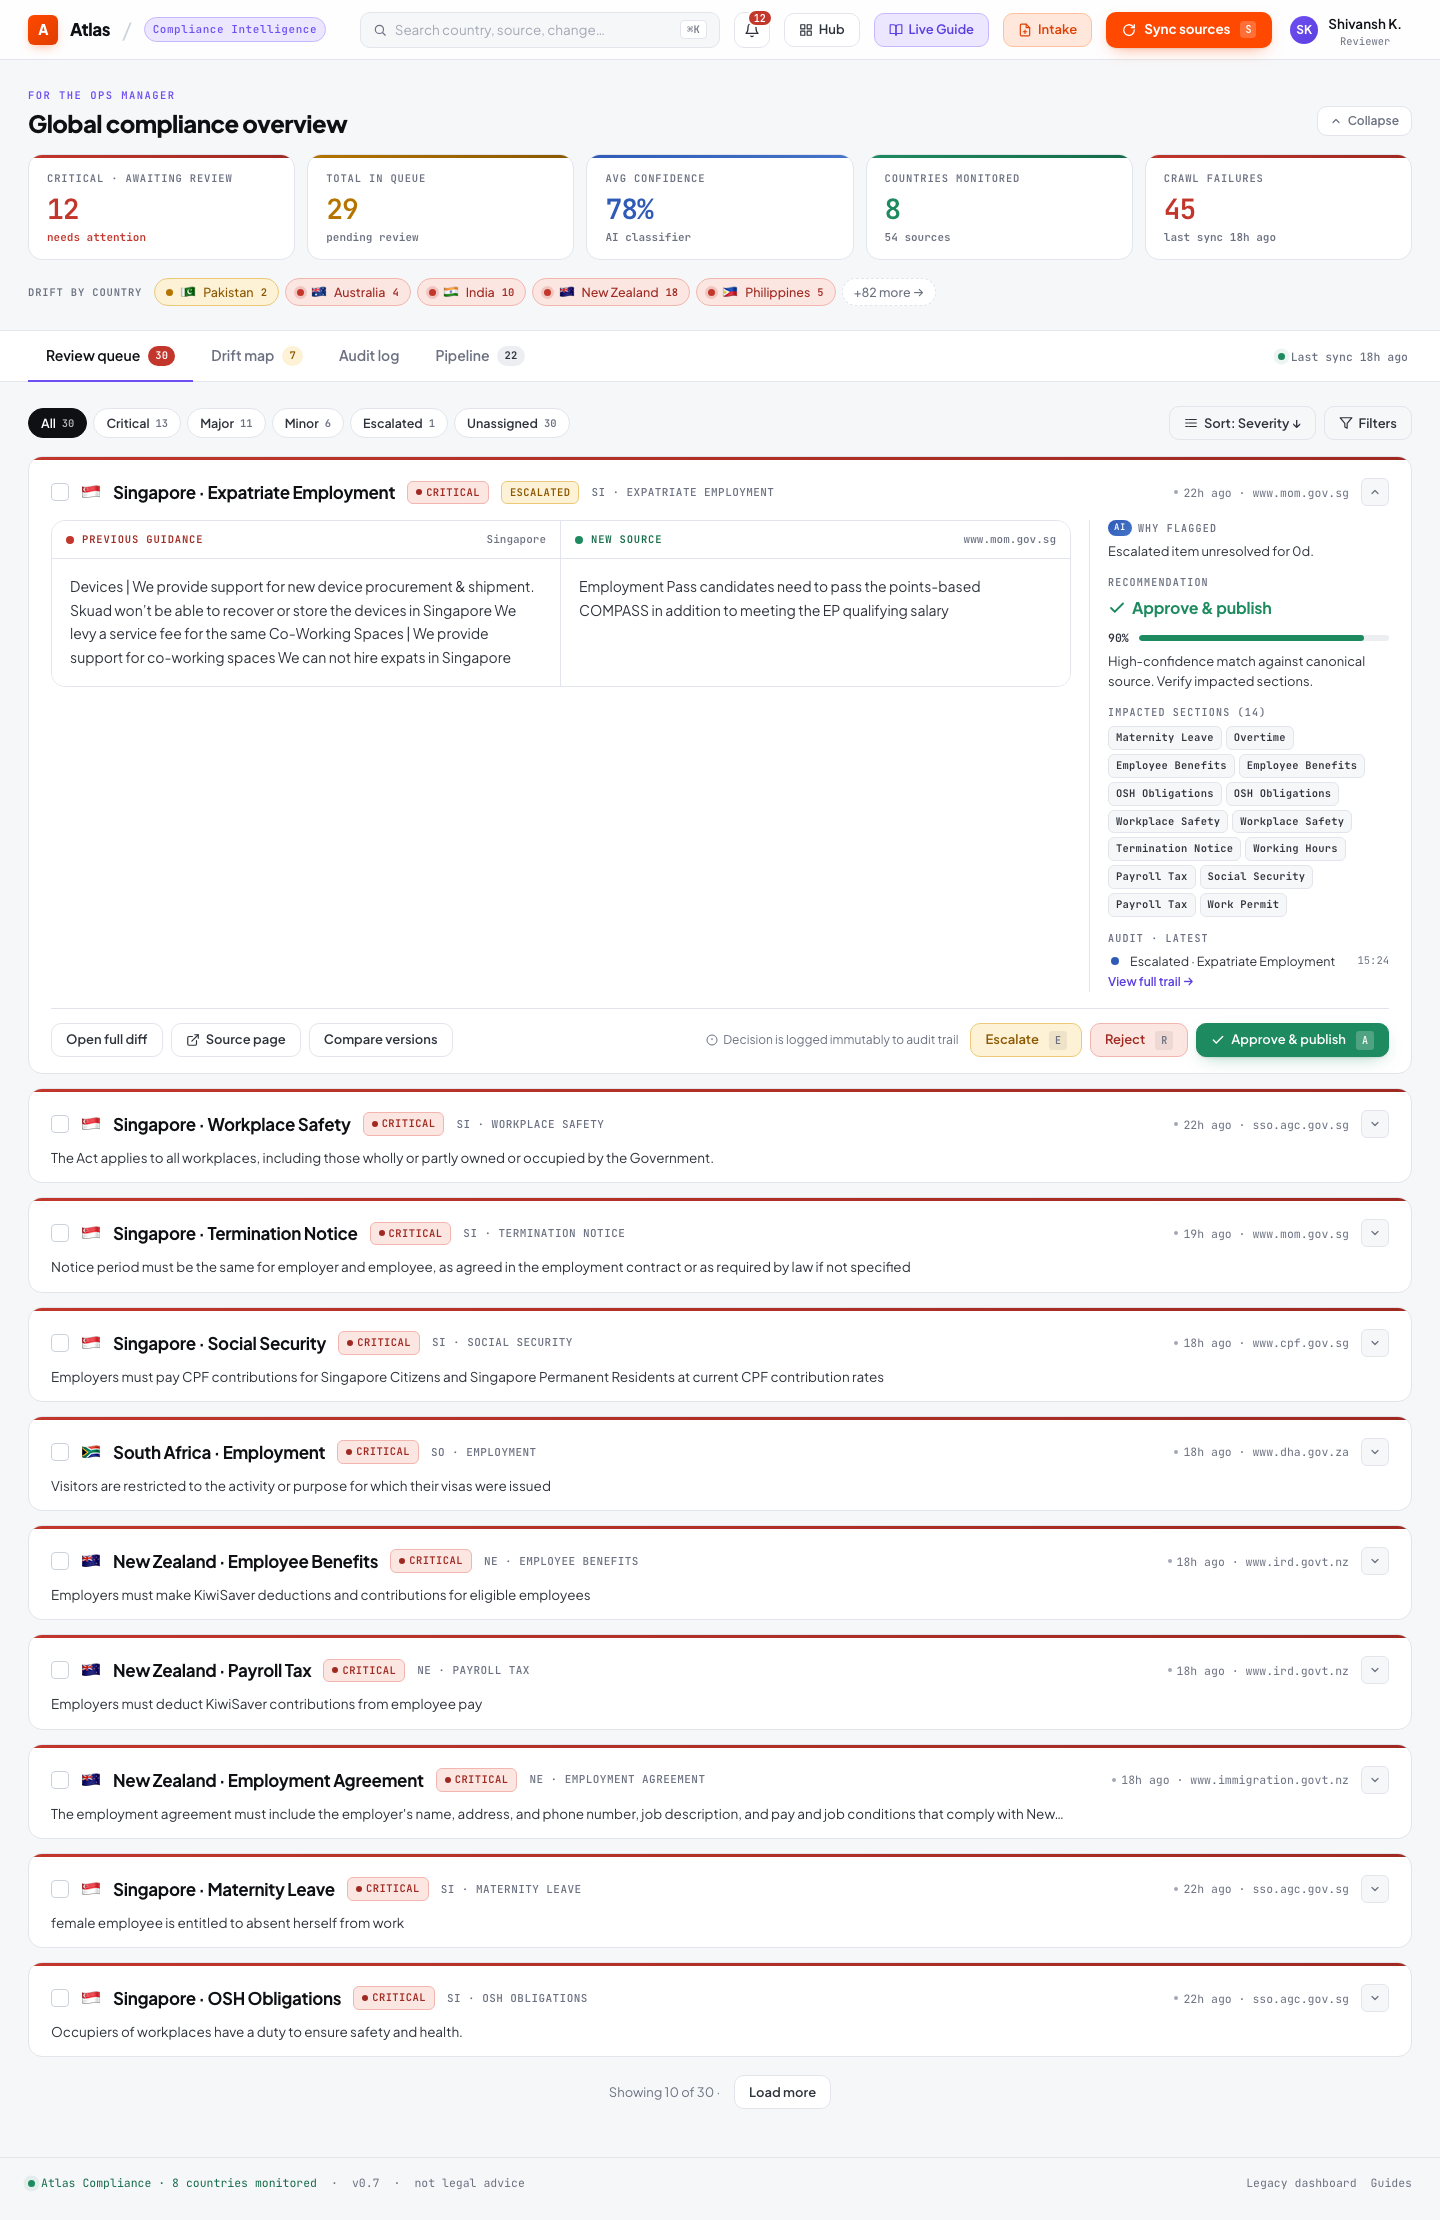
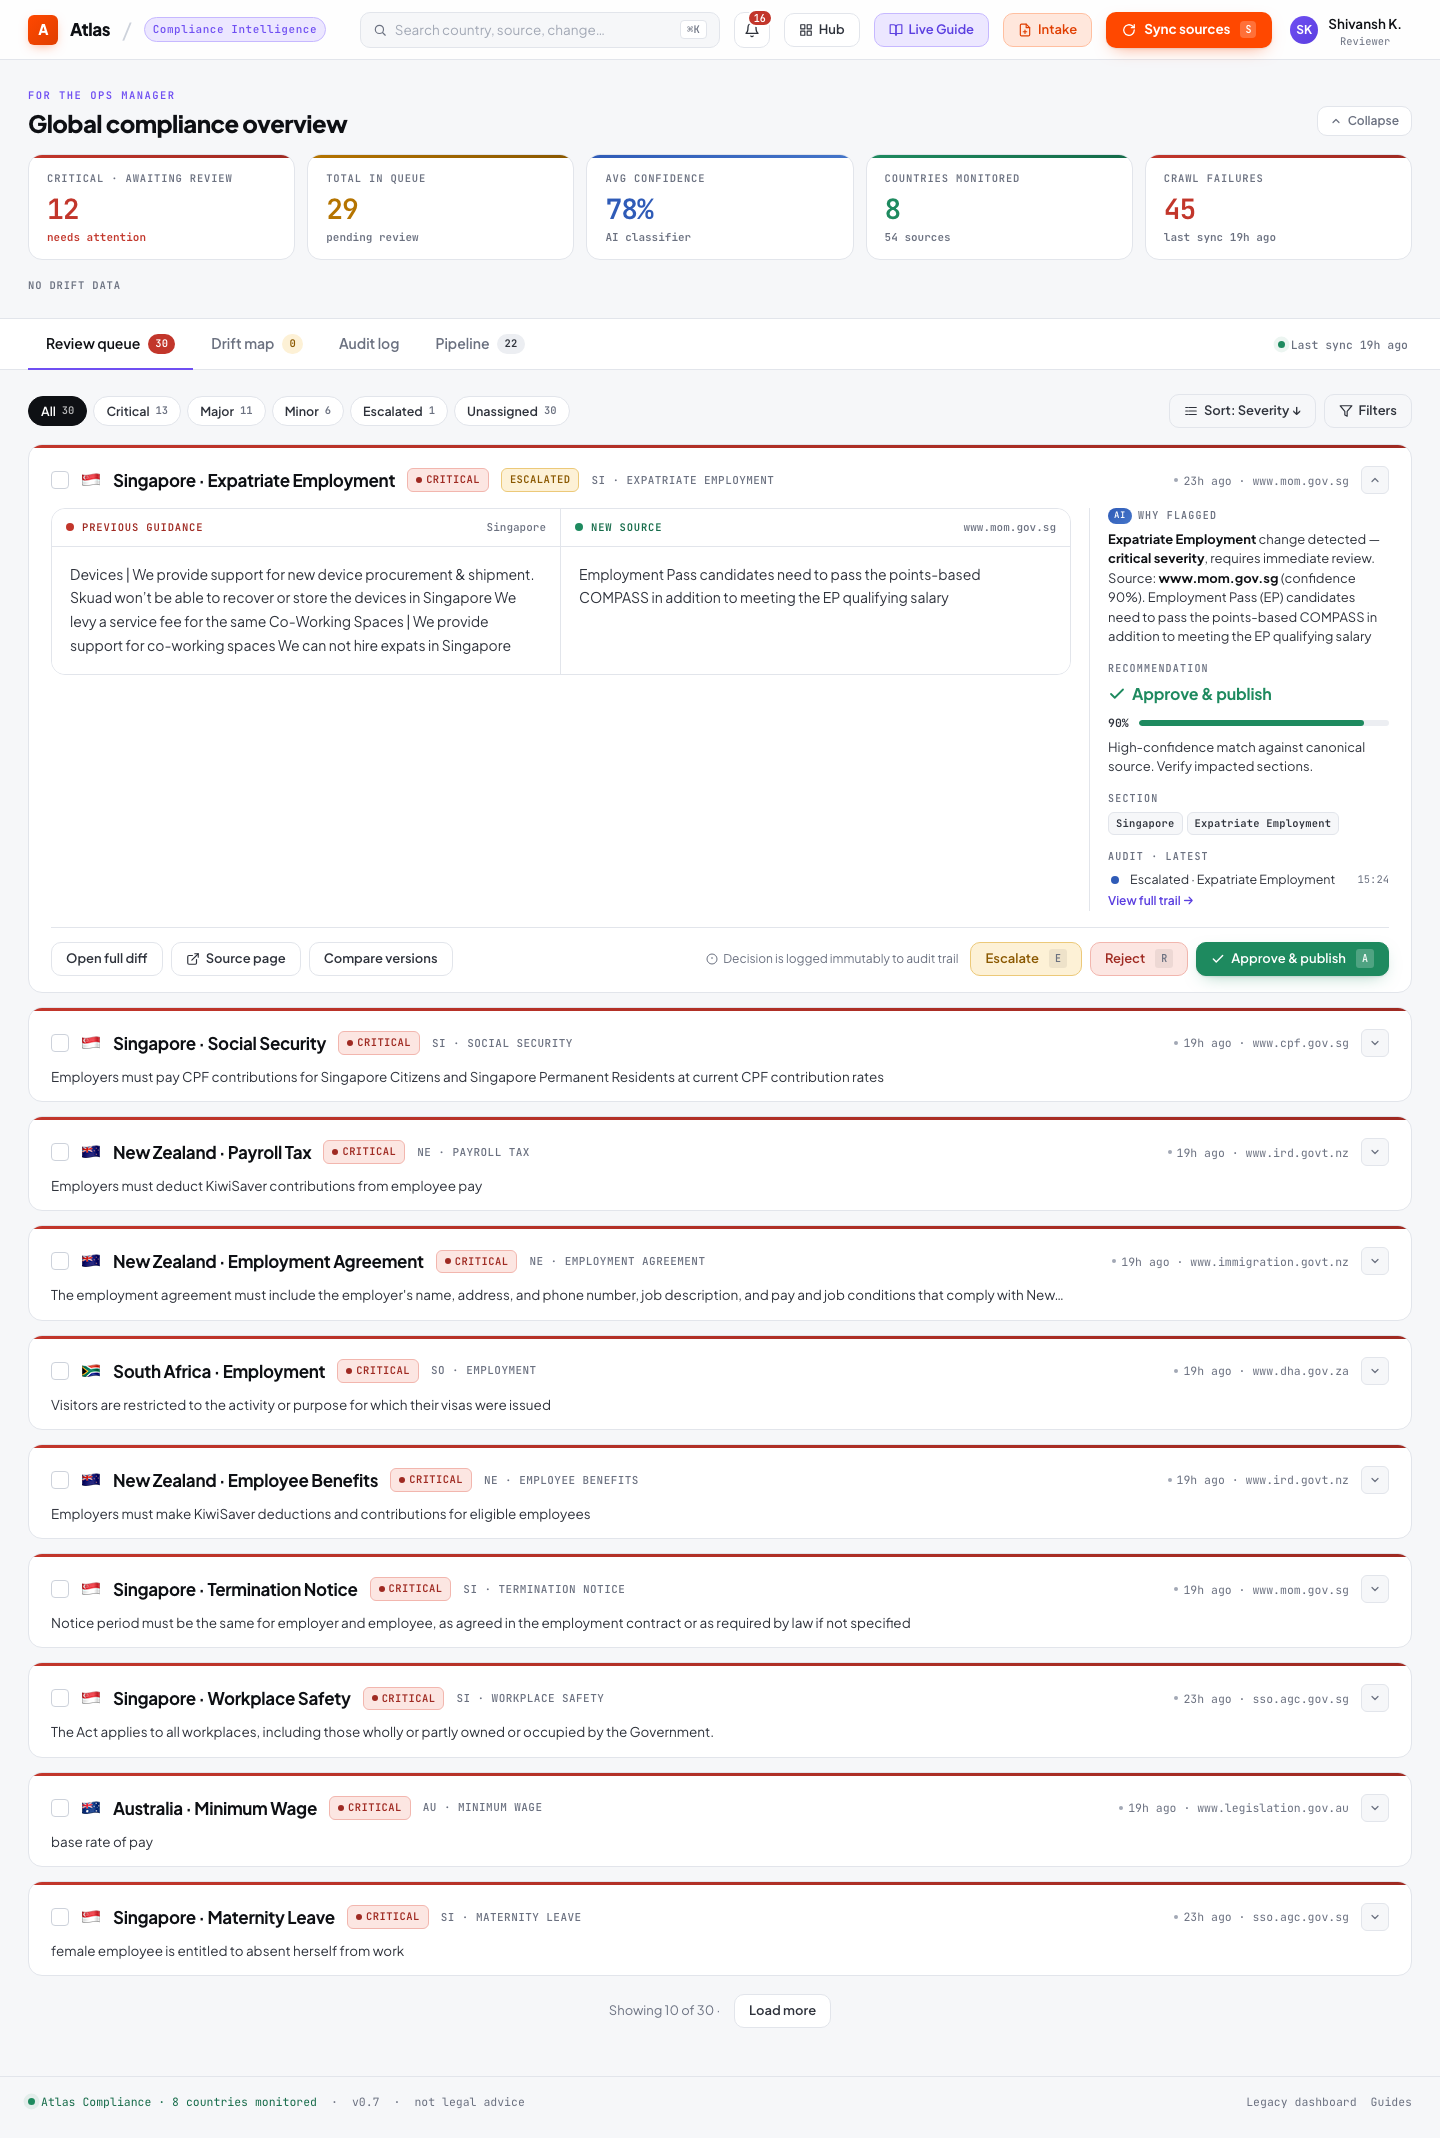
Deployed 88ed0c1 with MkDocs version: 1.6.1

diff --git a/guide/ops-dashboard/index.html b/guide/ops-dashboard/index.html
@@ -1104,6 +1104,7 @@
 <p><img alt="Ops Dashboard" src="../../assets/screenshots/ops_dashboard.png" /></p>
 <hr />
 <h2 id="metrics-cards">Metrics Cards<a class="headerlink" href="#metrics-cards" title="Permanent link">&para;</a></h2>
+<p><img alt="Regulatory Risk Scoring — Real-time KPIs with critical counts, confidence scores, and crawl failure tracking" src="../../assets/screenshots/regulatory_risk_scoring.png" /></p>
 <p>The top row displays real-time KPIs pulled from <code>GET /api/metrics</code>:</p>
 <table>
 <thead>
@@ -1161,6 +1162,7 @@
 2. <strong>Severity</strong>: Critical → major → minor
 3. <strong>Confidence</strong>: Highest confidence first</p>
 <h3 id="per-item-display">Per-Item Display<a class="headerlink" href="#per-item-display" title="Permanent link">&para;</a></h3>
+<p><img alt="Materiality Classification — Severity badges, change type chips, and confidence-based prioritization" src="../../assets/screenshots/materiality_classification.png" /></p>
 <ul>
 <li><strong>Severity badge</strong>: Color-coded (red = critical, orange = major, blue = minor)</li>
 <li><strong>Materiality chip</strong>: CRITICAL / HIGH / MODERATE / LOW / INFORMATIONAL</li>
@@ -1171,6 +1173,7 @@
 <li><strong>Source URL</strong>: Link to the original government page</li>
 </ul>
 <h3 id="actions">Actions<a class="headerlink" href="#actions" title="Permanent link">&para;</a></h3>
+<p><img alt="Manual Override Controls — Approve, Reject, and Escalate decision buttons with audit trail linkage" src="../../assets/screenshots/manual_override_controls.png" /></p>
 <table>
 <thead>
 <tr>
@@ -1211,10 +1214,12 @@
 </ul>
 <hr />
 <h2 id="sync-controls">Sync Controls<a class="headerlink" href="#sync-controls" title="Permanent link">&para;</a></h2>
+<p><img alt="CMS Synchronization — Source selection modal for targeted country sync" src="../../assets/screenshots/cms_synchronization.png" /></p>
 <p>Click <strong>Sync Now</strong> to trigger a manual pipeline run. A modal allows selecting specific countries to sync, conserving Groq API quota for targeted checks.</p>
 <p>After sync completes, the metrics cards refresh and any detected changes appear in the review queue.</p>
 <hr />
 <h2 id="audit-log-tab">Audit Log Tab<a class="headerlink" href="#audit-log-tab" title="Permanent link">&para;</a></h2>
+<p><img alt="Review Rationale Capture — Immutable audit timeline with reviewer identity, rationale text, and decision badges" src="../../assets/screenshots/provenance_audit_trail.png" /></p>
 <p>The audit log tab displays an immutable record of every review decision:</p>
 <table>
 <thead>
@@ -1257,6 +1262,7 @@
 <p>Filterable by country and date range via <code>GET /api/audit?country=India&amp;since=2025-01-01</code>.</p>
 <hr />
 <h2 id="drift-reports">Drift Reports<a class="headerlink" href="#drift-reports" title="Permanent link">&para;</a></h2>
+<p><img alt="Drift Monitoring Dashboard — Country-level drift status with severity filters" src="../../assets/screenshots/drift_monitoring_dashboard.png" /></p>
 <p>The drift tab shows compliance drift reports per country:</p>
 <ul>
 <li><strong>Overall severity</strong>: CRITICAL / WARNING / INFO / NONE</li>
@@ -1266,6 +1272,7 @@
 </ul>
 <hr />
 <h2 id="pipeline-health">Pipeline Health<a class="headerlink" href="#pipeline-health" title="Permanent link">&para;</a></h2>
+<p><img alt="Multi-Source Ingestion Pipeline — Job status tracking with per-stage progress dots and source URLs" src="../../assets/screenshots/multi_source_ingestion.png" /></p>
 <p>The pipeline tab shows recent ingestion jobs with:</p>
 <ul>
 <li><strong>State</strong>: queued → fetched → extracted → reconciled (or failed)</li>

diff --git a/modules/review-workflow/index.html b/modules/review-workflow/index.html
@@ -1267,6 +1267,7 @@
 </tbody>
 </table>
 <h2 id="5-functional-overview">5. Functional Overview<a class="headerlink" href="#5-functional-overview" title="Permanent link">&para;</a></h2>
+<p><img alt="Governance Review Queue — Prioritized review items with severity badges, materiality classification, and action controls" src="../../assets/screenshots/governance_review_queue.png" /></p>
 <p>The review workflow supports 5 core actions:</p>
 <table>
 <thead>
@@ -1413,7 +1414,7 @@
 </tbody>
 </table>
 <h2 id="10-frontendui-components">10. Frontend/UI Components<a class="headerlink" href="#10-frontendui-components" title="Permanent link">&para;</a></h2>
-<p><img alt="Ops Dashboard — Review Queue" src="../../assets/screenshots/ops_dashboard.png" /></p>
+<p><img alt="Semantic Diff Engine — Side-by-side before/after comparison with change classification" src="../../assets/screenshots/semantic_diff_engine.png" /></p>
 <p>The review queue in the ops dashboard provides:</p>
 <ul>
 <li><strong>Before/after toggle</strong>: Side-by-side or inline diff view</li>
@@ -1486,6 +1487,8 @@
 - "What was the source evidence?" → <code>rule_provenance.source_fragment</code>
 - "What was the extraction confidence?" → <code>rule_provenance.extraction_confidence</code>
 - "What was the previous value?" → <code>audit_log.old_value</code> or <code>country_guide_versions</code> with <code>superseded_at</code></p>
+<p><img alt="Manual Override Controls — Approve, Reject, and Escalate action buttons with rationale capture" src="../../assets/screenshots/manual_override_controls.png" /></p>
+<p><img alt="Review Rationale Capture — Audit trail showing reviewer decisions with comments and timestamps" src="../../assets/screenshots/review_rationale_capture.png" /></p>
 <h2 id="13-human-in-the-loop-governance-controls">13. Human-in-the-Loop Governance Controls<a class="headerlink" href="#13-human-in-the-loop-governance-controls" title="Permanent link">&para;</a></h2>
 <table>
 <thead>

diff --git a/modules/ingestion/index.html b/modules/ingestion/index.html
@@ -1229,6 +1229,7 @@
 </tbody>
 </table>
 <h2 id="5-functional-overview">5. Functional Overview<a class="headerlink" href="#5-functional-overview" title="Permanent link">&para;</a></h2>
+<p><img alt="Multi-Source Ingestion — Pipeline job tracking with per-stage progress dots, status indicators, and source URLs" src="../../assets/screenshots/multi_source_ingestion.png" /></p>
 <p>Three ingestion adapters feed into a common pipeline:</p>
 <table>
 <thead>
@@ -1319,6 +1320,8 @@
 <p><strong>Country discovery</strong>: Regex pattern <code>^(.+?)\s*[-–]\s*Employment Guide</code> auto-discovers country names from page titles.</p>
 <p><strong>Content format</strong>: Notion pages contain pipe-separated tables which are parsed deterministically — no LLM is needed for this structured format.</p>
 <h3 id="pdf-intake">PDF Intake<a class="headerlink" href="#pdf-intake" title="Permanent link">&para;</a></h3>
+<p><img alt="PDF Compliance Parsing — Document upload interface with processing pipeline status and ingestion activity feed" src="../../assets/screenshots/pdf_compliance_parsing.png" /></p>
+<p><img alt="Compliance Pipeline — Job-level tracking with stage progress dots, pagination, and source URL display" src="../../assets/screenshots/compliance_pipeline.png" /></p>
 <p>The <code>/api/intake/pdf</code> endpoint accepts multipart form uploads, extracts text content, and feeds it into the standard extraction pipeline.</p>
 <h2 id="7-technical-architecture">7. Technical Architecture<a class="headerlink" href="#7-technical-architecture" title="Permanent link">&para;</a></h2>
 <h3 id="source-snapshot-lifecycle">Source Snapshot Lifecycle<a class="headerlink" href="#source-snapshot-lifecycle" title="Permanent link">&para;</a></h3>

diff --git a/modules/llm-extraction/index.html b/modules/llm-extraction/index.html
@@ -1245,6 +1245,7 @@
 </tbody>
 </table>
 <h2 id="5-functional-overview">5. Functional Overview<a class="headerlink" href="#5-functional-overview" title="Permanent link">&para;</a></h2>
+<p><img alt="AI Recommendation Layer — Confidence scoring, change classification, and approval recommendation" src="../../assets/screenshots/ai_recommendation_layer.png" /></p>
 <p>The extraction service takes cleaned HTML text and a target country/sections list, then:</p>
 <ol>
 <li>Chunks the content to fit LLM context windows</li>
@@ -1420,6 +1421,7 @@
 <li><strong><code>rule_provenance.extraction_confidence</code></strong>: Recorded in the provenance chain</li>
 <li><strong><code>rule_provenance.parser_version</code></strong>: Fixed string <code>"groq/llama-3.3-70b-versatile/v1"</code> for model lineage</li>
 </ul>
+<p><img alt="Regulatory Risk Scoring — Dashboard metrics showing critical counts, average confidence, and crawl failure rate" src="../../assets/screenshots/regulatory_risk_scoring.png" /></p>
 <h2 id="11-aillm-usage">11. AI/LLM Usage<a class="headerlink" href="#11-aillm-usage" title="Permanent link">&para;</a></h2>
 <table>
 <thead>

diff --git a/modules/provenance/index.html b/modules/provenance/index.html
@@ -1273,6 +1273,7 @@
 </tbody>
 </table>
 <h2 id="5-functional-overview">5. Functional Overview<a class="headerlink" href="#5-functional-overview" title="Permanent link">&para;</a></h2>
+<p><img alt="Provenance Audit Trail — Immutable timeline of every review decision with reviewer identity, rationale, and timestamps" src="../../assets/screenshots/provenance_audit_trail.png" /></p>
 <p>The provenance system records a linked chain for every published rule:</p>
 <div class="highlight"><pre><span></span><code><a id="__codelineno-0-1" name="__codelineno-0-1" href="#__codelineno-0-1"></a>Government Source URL
 <a id="__codelineno-0-2" name="__codelineno-0-2" href="#__codelineno-0-2"></a>    → Crawl Event (ingestion job with timestamps)
@@ -1447,6 +1448,7 @@
 </tr>
 </tbody>
 </table>
+<p><img alt="Provenance Tracking — Source-to-rule traceability cards with confidence bars, parser version, and reviewer metadata" src="../../assets/screenshots/provenance_tracking.png" /></p>
 <h2 id="10-auditability-traceability">10. Auditability &amp; Traceability<a class="headerlink" href="#10-auditability-traceability" title="Permanent link">&para;</a></h2>
 <p>The provenance system provides <strong>5 levels of traceability</strong>:</p>
 <table>

diff --git a/modules/semantic-reconciliation/index.html b/modules/semantic-reconciliation/index.html
@@ -1227,6 +1227,7 @@
 </tbody>
 </table>
 <h2 id="5-functional-overview">5. Functional Overview<a class="headerlink" href="#5-functional-overview" title="Permanent link">&para;</a></h2>
+<p><img alt="Semantic Diff Engine — Before/after comparison with word-level highlighting and change classification" src="../../assets/screenshots/semantic_diff_engine.png" /></p>
 <p>The engine compares an old rule value against a new rule value and produces a <code>SemanticReconciliationResult</code> with:</p>
 <ul>
 <li><strong><code>semantic_change_detected</code></strong>: Boolean — is this a meaningful change?</li>
@@ -1393,6 +1394,7 @@
 </tr>
 </tbody>
 </table>
+<p><img alt="Materiality Classification — Severity badges and materiality chips on review queue items" src="../../assets/screenshots/materiality_classification.png" /></p>
 <h2 id="10-database-design-implications">10. Database Design Implications<a class="headerlink" href="#10-database-design-implications" title="Permanent link">&para;</a></h2>
 <p>Two columns on <code>review_queue</code> carry the semantic classification:</p>
 <ul>

diff --git a/modules/drift-detection/index.html b/modules/drift-detection/index.html
@@ -1256,6 +1256,7 @@
 </tbody>
 </table>
 <h2 id="5-functional-overview">5. Functional Overview<a class="headerlink" href="#5-functional-overview" title="Permanent link">&para;</a></h2>
+<p><img alt="Drift Monitoring Dashboard — Country-level compliance drift status with severity breakdown and suggested actions" src="../../assets/screenshots/drift_monitoring_dashboard.png" /></p>
 <p>The drift detector evaluates two categories of rules:</p>
 <p><strong>Pending Rules</strong> — Analyze the review queue for aging and urgency:</p>
 <ul>

diff --git a/modules/sync-pipeline/index.html b/modules/sync-pipeline/index.html
@@ -1234,6 +1234,7 @@
 </tbody>
 </table>
 <h2 id="5-functional-overview">5. Functional Overview<a class="headerlink" href="#5-functional-overview" title="Permanent link">&para;</a></h2>
+<p><img alt="CMS Synchronization — Country-scoped sync with source selection" src="../../assets/screenshots/cms_synchronization.png" /></p>
 <p>The sync pipeline is a sequential, source-by-source orchestration that:</p>
 <ol>
 <li>Resolves the list of trusted government source endpoints</li>

diff --git a/capture_screenshots.py b/capture_screenshots.py
@@ -1,8 +1,8 @@
 """
 Automated screenshot capture for documentation.
 
-Starts the Flask app, navigates to each key page, and saves screenshots
-to docs/assets/screenshots/. Run after any UI changes:
+Starts the Flask app, navigates to each key page, and saves targeted
+screenshots showcasing 12 platform capabilities. Run after any UI changes:
 
     python docs/capture_screenshots.py
 """
@@ -17,13 +17,6 @@ from playwright.sync_api import sync_playwright
 BASE_URL = "http://localhost:8080"
 SCREENSHOT_DIR = Path(__file__).parent / "assets" / "screenshots"
 
-PAGES = [
-    {"name": "home", "path": "/", "wait": None},
-    {"name": "ops_dashboard", "path": "/ops", "wait": None},
-    {"name": "guide_list", "path": "/guide", "wait": None},
-    {"name": "guide_country", "path": "/guide/India", "wait": None},
-]
-
 
 def wait_for_server(url, timeout=15):
     import urllib.request
@@ -37,6 +30,51 @@ def wait_for_server(url, timeout=15):
         except (urllib.error.URLError, ConnectionError, OSError):
             time.sleep(0.5)
     return False
+
+
+def shot(page, name, full_page=True):
+    path = SCREENSHOT_DIR / f"{name}.png"
+    page.screenshot(path=str(path), full_page=full_page)
+    print(f"  ✓ {name}")
+
+
+def js_scroll_to(page, selector):
+    """Scroll to an element using JS — bypasses Playwright visibility checks."""
+    page.evaluate(f"""() => {{
+        const el = document.querySelector('{selector}');
+        if (el) el.scrollIntoView({{ behavior: 'instant', block: 'center' }});
+    }}""")
+    time.sleep(0.3)
+
+
+def switch_tab(page, index):
+    """Switch to a tab by index (0-based) using JS."""
+    page.evaluate(f"""() => {{
+        const tabs = document.querySelectorAll('button.tab');
+        const panels = document.querySelectorAll('.tabpanel');
+        tabs.forEach((t, i) => {{
+            t.setAttribute('aria-current', i === {index} ? 'true' : 'false');
+        }});
+        panels.forEach((p, i) => {{
+            if (i === {index}) p.classList.add('active');
+            else p.classList.remove('active');
+        }});
+    }}""")
+    time.sleep(0.4)
+
+
+def expand_card(page, index=0):
+    """Expand a review card by index using JS."""
+    page.evaluate(f"""() => {{
+        const cards = document.querySelectorAll('.rcard');
+        if (cards[{index}]) {{
+            const grid = cards[{index}].querySelector('.rcard-grid');
+            if (grid) grid.style.display = 'grid';
+            const btn = cards[{index}].querySelector('[class*="expand"]');
+            if (btn) btn.textContent = '▲';
+        }}
+    }}""")
+    time.sleep(0.3)
 
 
 def capture_screenshots():
@@ -62,33 +100,131 @@ def capture_screenshots():
             browser = p.chromium.launch()
             page = browser.new_page(viewport={"width": 1440, "height": 900})
 
-            for entry in PAGES:
-                url = f"{BASE_URL}{entry['path']}"
-                print(f"  {entry['name']:20s} → {url}")
-                page.goto(url, wait_until="networkidle")
+            # ── FULL PAGE CAPTURES ────────────────────────────────────
+            page.goto(f"{BASE_URL}/", wait_until="networkidle")
+            shot(page, "home")
 
-                if entry.get("wait"):
-                    page.wait_for_selector(entry["wait"])
-
-                page.screenshot(
-                    path=str(SCREENSHOT_DIR / f"{entry['name']}.png"),
-                    full_page=True,
-                )
-
-            # Capture review queue by scrolling to it on the ops dashboard
             page.goto(f"{BASE_URL}/ops", wait_until="networkidle")
-            review_section = page.query_selector("[class*='review'], [id*='review'], table, .queue")
-            if review_section:
-                review_section.scroll_into_view_if_needed()
-                time.sleep(0.3)
-            page.screenshot(
-                path=str(SCREENSHOT_DIR / "review_queue.png"),
-                full_page=False,
-            )
+            shot(page, "ops_dashboard")
+
+            page.goto(f"{BASE_URL}/guide", wait_until="networkidle")
+            shot(page, "guide_list")
+
+            page.goto(f"{BASE_URL}/guide/India", wait_until="networkidle")
+            shot(page, "guide_country")
+
+            # ── OPS DASHBOARD — Review tab ────────────────────────────
+            page.goto(f"{BASE_URL}/ops", wait_until="networkidle")
+            switch_tab(page, 0)
+
+            # ── FEATURE 1: REGULATORY RISK SCORING ────────────────────
+            # Metrics cards + country severity pills at the top
+            js_scroll_to(page, ".mgr")
+            shot(page, "regulatory_risk_scoring", full_page=False)
+
+            # ── FEATURE 2: MATERIALITY CLASSIFICATION ─────────────────
+            # Review list showing severity badges and materiality chips
+            js_scroll_to(page, ".review-list")
+            shot(page, "materiality_classification", full_page=False)
+
+            # ── FEATURE 3: GOVERNANCE REVIEW QUEUE ────────────────────
+            # Expand first two review cards for richer view
+            expand_card(page, 0)
+            expand_card(page, 1)
+            js_scroll_to(page, ".rcard")
+            shot(page, "governance_review_queue", full_page=False)
+
+            # ── FEATURE 4: SEMANTIC DIFF ENGINE ───────────────────────
+            # Scroll to the diff panel inside the first expanded card
+            js_scroll_to(page, ".diff")
+            shot(page, "semantic_diff_engine", full_page=False)
+
+            # ── FEATURE 5: AI RECOMMENDATION LAYER ────────────────────
+            # Scroll to the AI reasoning sidebar (confidence + classification)
+            js_scroll_to(page, ".rai")
+            shot(page, "ai_recommendation_layer", full_page=False)
+
+            # ── FEATURE 6: MANUAL OVERRIDE CONTROLS ───────────────────
+            # Approve / Reject / Escalate buttons
+            js_scroll_to(page, ".rcard-actions")
+            shot(page, "manual_override_controls", full_page=False)
+
+            # ── FEATURE 7: REVIEW RATIONALE CAPTURE ───────────────────
+            # The audit-mini section within a card showing the approval chain
+            js_scroll_to(page, ".audit-mini")
+            shot(page, "review_rationale_capture", full_page=False)
+
+            # ── FEATURE 8: DRIFT MONITORING DASHBOARD ─────────────────
+            switch_tab(page, 1)
+            # Expand drift table rows
+            page.evaluate("""() => {
+                document.querySelectorAll('.drift-table .parent').forEach(row => {
+                    const detail = row.nextElementSibling;
+                    if (detail && detail.classList.contains('detail-row')) {
+                        detail.style.display = 'table-row';
+                    }
+                });
+            }""")
+            time.sleep(0.3)
+            shot(page, "drift_monitoring_dashboard", full_page=False)
+
+            # ── FEATURE 9: CMS SYNCHRONIZATION ───────────────────────
+            # Open the sync modal
+            page.evaluate("""() => {
+                const scrim = document.querySelector('.modal-scrim');
+                if (scrim) scrim.classList.add('open');
+            }""")
+            time.sleep(0.4)
+            shot(page, "cms_synchronization", full_page=False)
+            # Close modal
+            page.evaluate("""() => {
+                const scrim = document.querySelector('.modal-scrim');
+                if (scrim) scrim.classList.remove('open');
+            }""")
+            time.sleep(0.2)
+
+            # ── FEATURE 10: MULTI-SOURCE INGESTION (Pipeline tab) ─────
+            switch_tab(page, 3)
+            # Expand first pipeline job row
+            page.evaluate("""() => {
+                const rows = document.querySelectorAll('.pipe-table tbody tr.parent, .pipe-table tbody tr');
+                if (rows[0]) {
+                    const detail = rows[0].nextElementSibling;
+                    if (detail) detail.style.display = 'table-row';
+                }
+            }""")
+            time.sleep(0.3)
+            shot(page, "multi_source_ingestion", full_page=False)
+
+            # ── FEATURE 11: PROVENANCE TRACKING (Audit tab) ───────────
+            switch_tab(page, 2)
+            shot(page, "provenance_audit_trail", full_page=False)
+
+            # ── FEATURE 12: PDF COMPLIANCE PARSING ────────────────────
+            page.goto(f"{BASE_URL}/compliance/intake", wait_until="networkidle")
+            shot(page, "pdf_compliance_parsing")
+
+            # ── COMPLIANCE PIPELINE (bonus) ───────────────────────────
+            try:
+                page.goto(f"{BASE_URL}/compliance/pipeline", wait_until="networkidle", timeout=5000)
+                shot(page, "compliance_pipeline")
+            except Exception:
+                pass
+
+            # ── PROVENANCE CARDS (client overview, bonus) ─────────────
+            try:
+                page.goto(f"{BASE_URL}/client", wait_until="networkidle", timeout=5000)
+                prov = page.query_selector(".prov-grid")
+                if prov:
+                    js_scroll_to(page, ".prov-grid")
+                    shot(page, "provenance_tracking", full_page=False)
+            except Exception:
+                pass
 
             browser.close()
 
-        print(f"\nDone — {len(PAGES) + 1} screenshots saved to {SCREENSHOT_DIR}")
+        files = list(SCREENSHOT_DIR.glob("*.png"))
+        print(f"\nDone — {len(files)} screenshots saved to {SCREENSHOT_DIR}")
 
     finally:
         server_process.terminate()